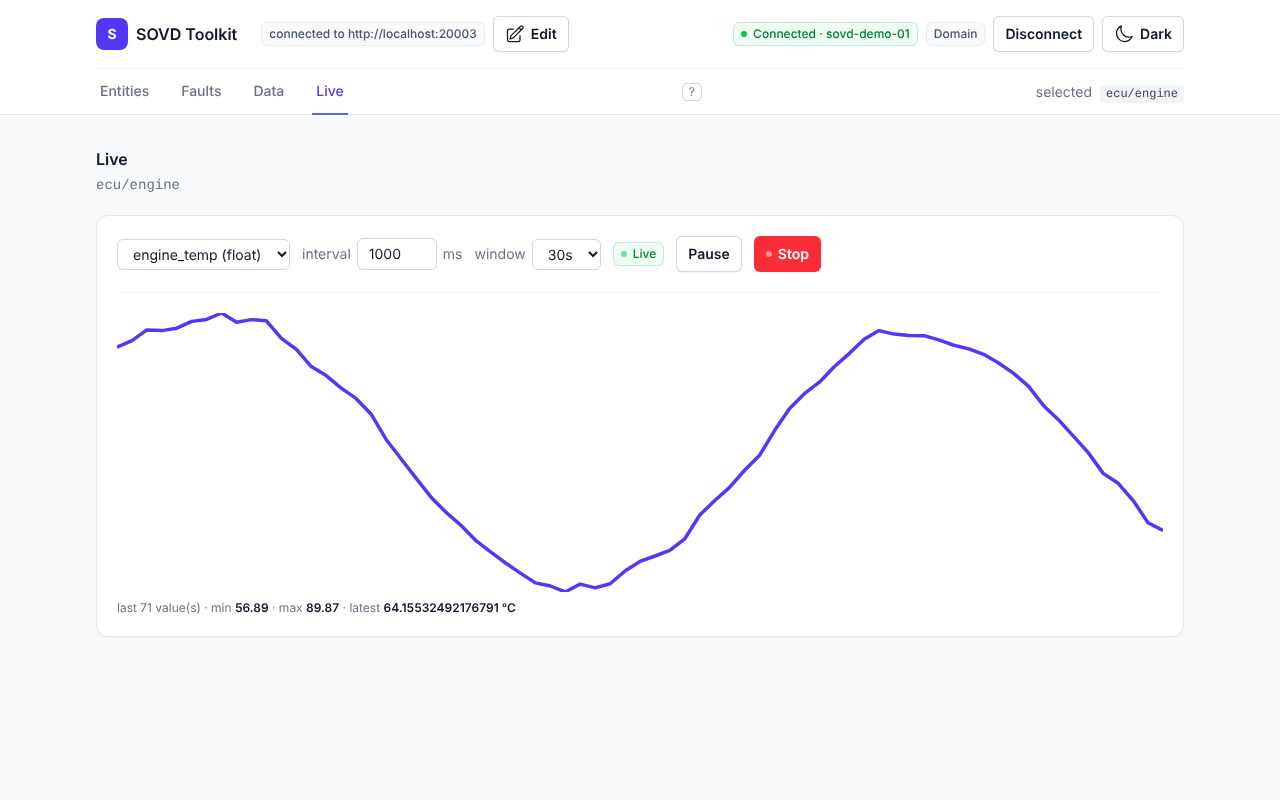
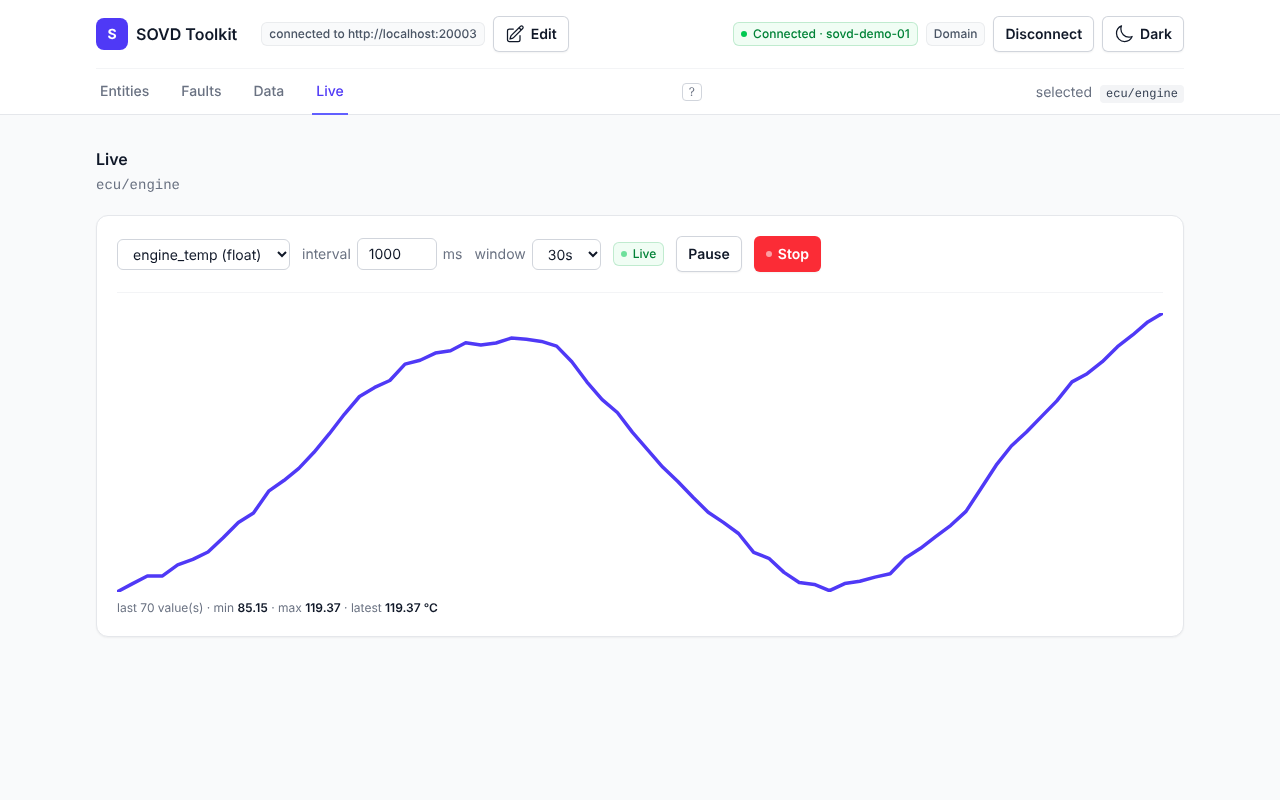
Live: round min/max/latest for display
Claude-Session: https://claude.ai/code/session_01FYMcn5jeqQvgBxWVffCyNm

diff --git a/web/src/views/LiveChart.vue b/web/src/views/LiveChart.vue
@@ -130,6 +130,8 @@ const stats = computed(() =>
   points.value.length ? { min: Math.min(...points.value), max: Math.max(...points.value), latest: points.value[points.value.length - 1] } : null,
 )
 
+const fmt = (n: unknown) => (typeof n === 'number' && Number.isFinite(n) ? n.toLocaleString(undefined, { maximumFractionDigits: 2 }) : String(n))
+
 const svgPoints = computed(() => {
   if (points.value.length < 2) return ''
   const min = Math.min(...points.value)
@@ -212,9 +214,9 @@ defineExpose({ refresh: () => loadDocs() })
         </svg>
         <p class="mt-2 text-xs text-gray-500 dark:text-gray-400">
           last {{ points.length }} value(s)<template v-if="stats">
-            · min <span class="font-semibold text-gray-900 dark:text-gray-100">{{ stats.min.toFixed(2) }}</span>
-            · max <span class="font-semibold text-gray-900 dark:text-gray-100">{{ stats.max.toFixed(2) }}</span>
-            · latest <span class="font-semibold text-gray-900 dark:text-gray-100">{{ stats.latest }} {{ selectedItem?.unit ?? '' }}</span></template>
+            · min <span class="font-semibold text-gray-900 dark:text-gray-100">{{ fmt(stats.min) }}</span>
+            · max <span class="font-semibold text-gray-900 dark:text-gray-100">{{ fmt(stats.max) }}</span>
+            · latest <span class="font-semibold text-gray-900 dark:text-gray-100">{{ fmt(stats.latest) }} {{ selectedItem?.unit ?? '' }}</span></template>
         </p>
       </div>
 
